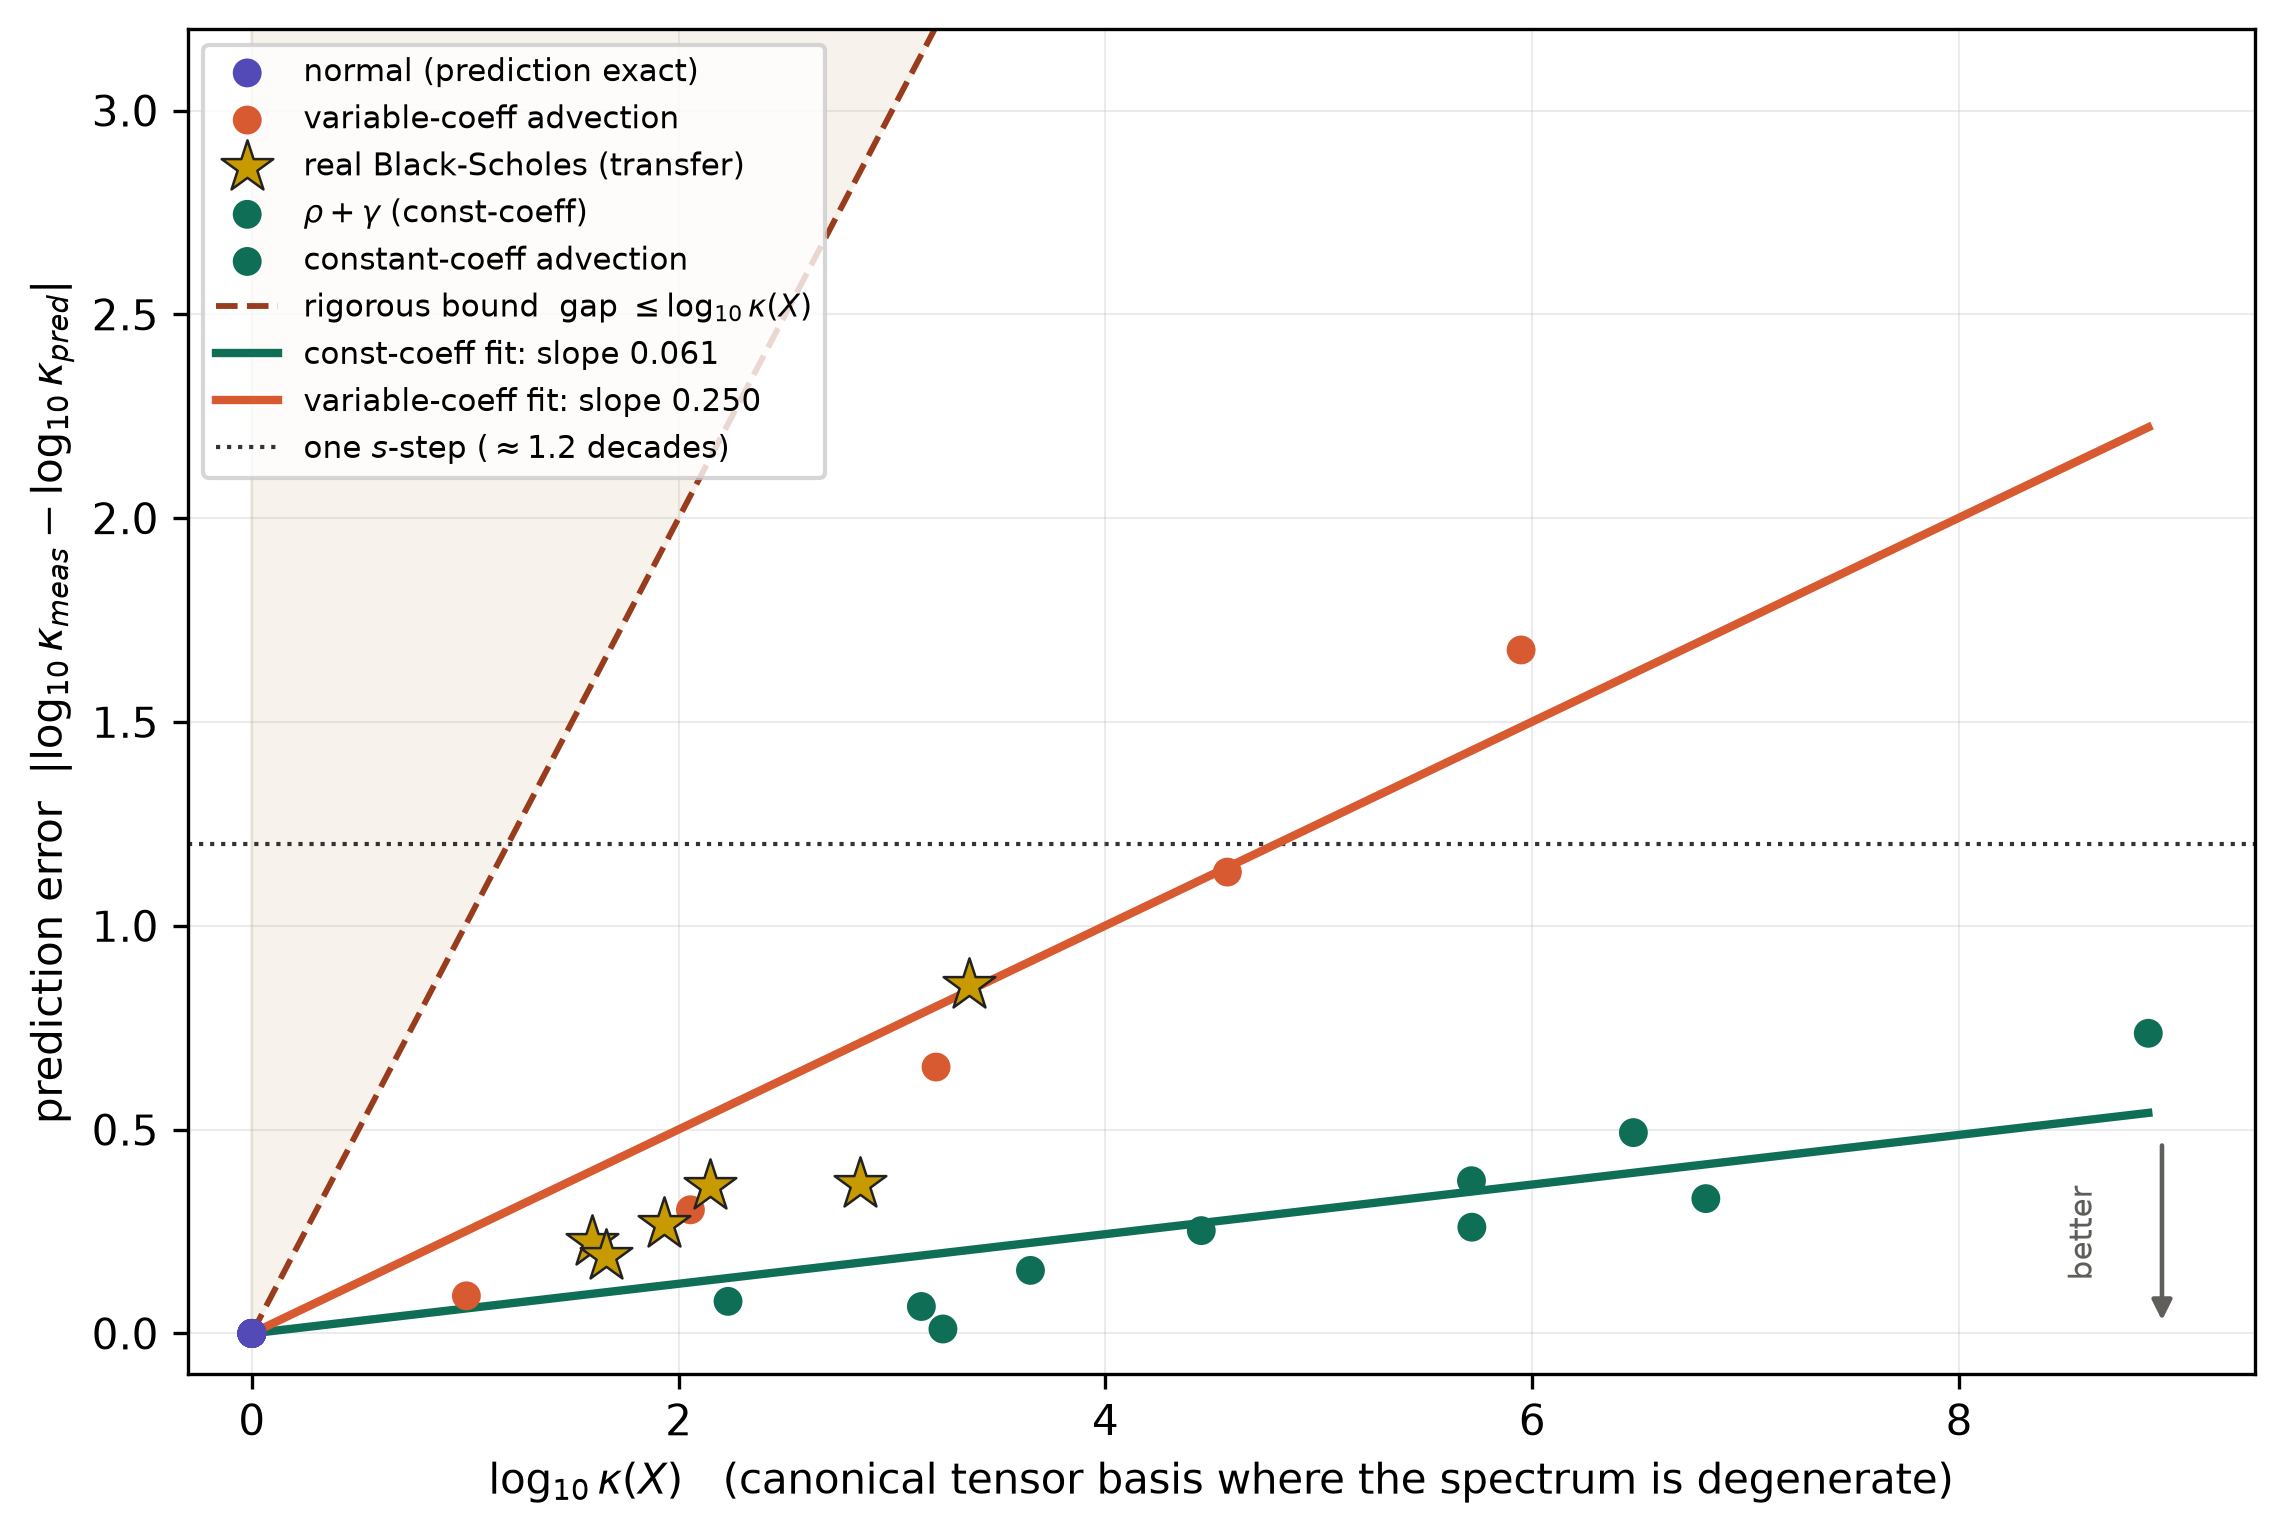
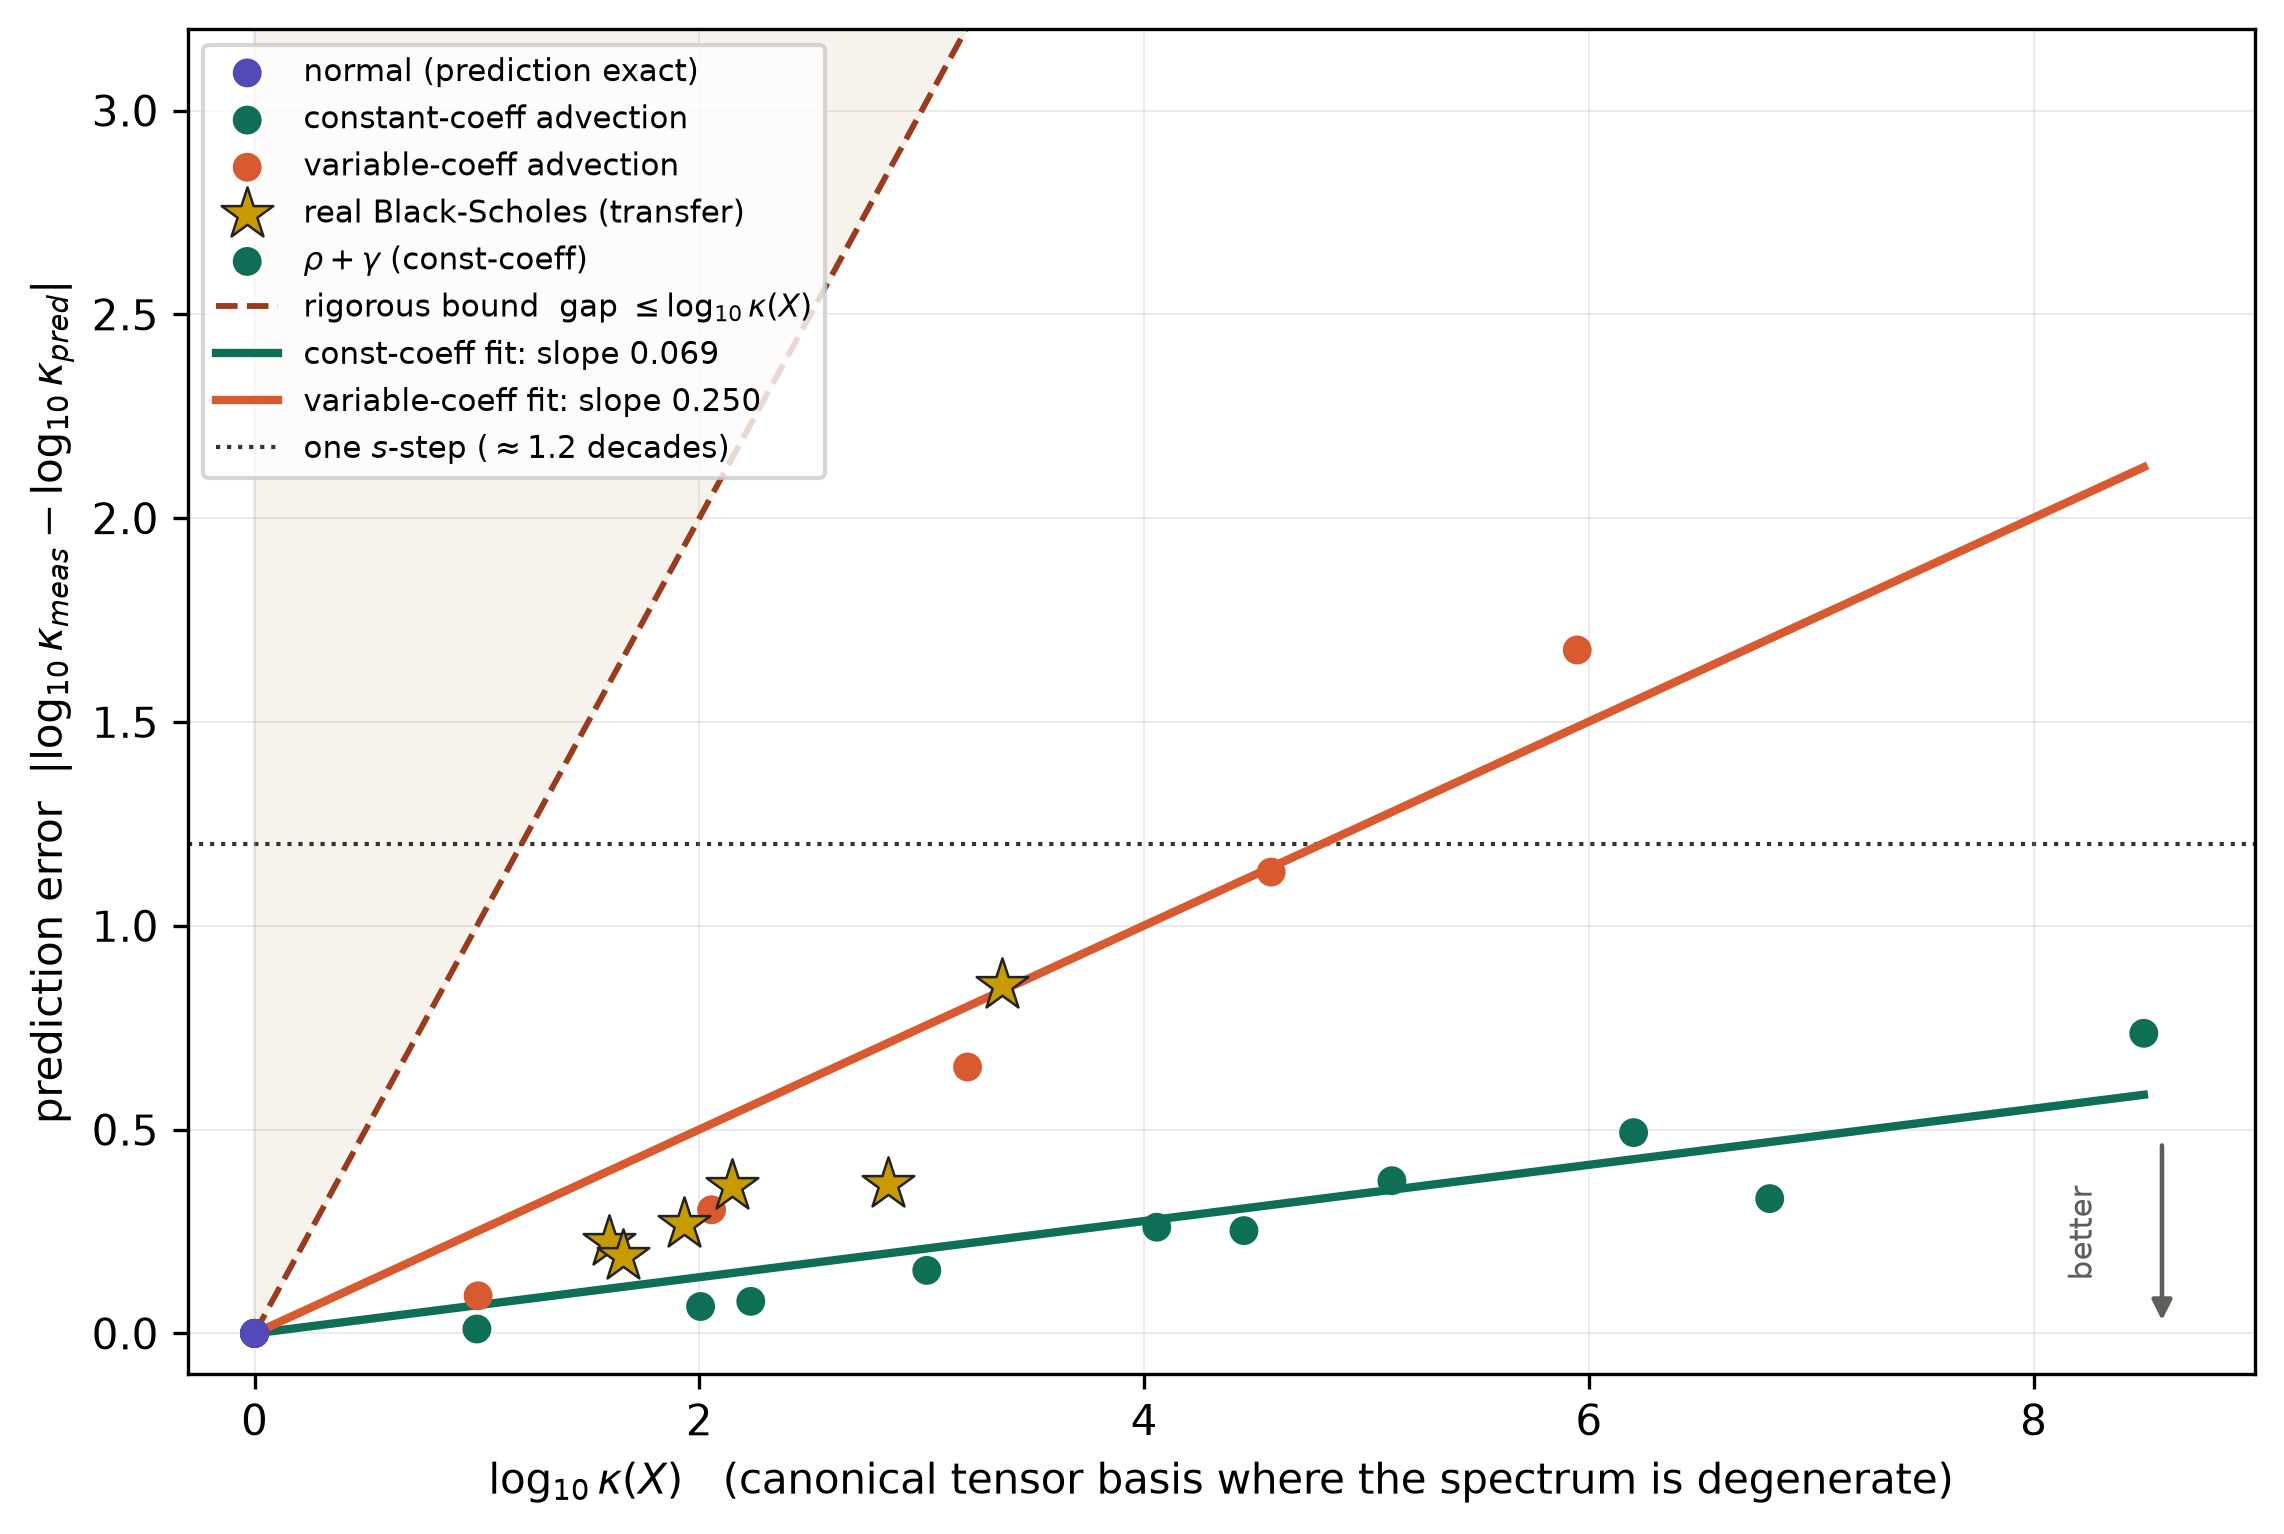
fix: refitted the log-robustness law on the canonical kappa(X) axis

diff --git a/README.md b/README.md
@@ -595,17 +595,22 @@ Measured, the data sits far below that line and grows only *logarithmically*:
 
 | Mechanism                                                      | Fitted slope of (error in decades) vs $\log_{10}\kappa(X)$ |
 |----------------------------------------------------------------|------------------------------------------------------------|
-| constant-coefficient (advection, correlation, $\rho + \gamma$) | **0.061**                                                  |
+| constant-coefficient (advection, correlation, $\rho + \gamma$) | **0.069**                                                  |
 | variable-coefficient advection (position-dependent ramp)       | **0.250** (~4x steeper)                                    |
 
 The two slopes differ by a factor of four, so the law is **scoped to the
 constant-coefficient family**, not mechanism-independent - which is exactly why the
-variable-advection knob exists in the instrument. The figure's horizontal axis is currently
-the dense $\kappa(X)$, which for the zero-correlation half of the constant-coefficient arm
-is degenerate and inflated (up to $173\times$, see [the asset-dimension
-law](#the-asset-dimension-law)); refitting that arm on the canonical axis moves its slope to
-0.069, leaving the separation intact. The variable-coefficient arm ramps a single axis, so
-its spectrum is simple and its axis is sound either way.
+variable-advection knob exists in the instrument.
+
+Both are fitted on the canonical axis. This matters for the constant-coefficient arm, whose
+zero-correlation half is a pure Kronecker sum: its axes are interchangeable, so the dense
+$\kappa(X)$ there is degenerate and inflated by up to $173\times$ (see [the asset-dimension
+law](#the-asset-dimension-law)). Fitted on that dense axis the slope reads 0.061 instead of
+0.069 - a shift small enough not to disturb the conclusion, but the two arms would have been
+compared on axes of different validity, since the variable-coefficient arm ramps a single
+axis and therefore keeps a simple spectrum and a sound dense value. The `--real-bs` and
+variable-advection points legitimately retain the dense value for the same reason;
+`regime_plot.py` reports the split (19 canonical, 11 dense) on every run.
 
 A *decade* here is one factor of ten in the basis condition number: the error plotted is
 $\lvert \log_{10}\kappa_{\text{meas}} - \log_{10}\kappa_{\text{pred}} \rvert$, so 1.0
@@ -929,10 +934,9 @@ Carried explicitly so no figure is read as claiming more than it measures.
 | Caveat                                                                                                                        | Consequence                                                                                                                                                                                                                                                          |
 |-------------------------------------------------------------------------------------------------------------------------------|----------------------------------------------------------------------------------------------------------------------------------------------------------------------------------------------------------------------------------------------------------------------|
 | DRAM bytes are **modeled, not counted** (puffin's uncore counters need root)                                                  | vertical-mechanism traffic claims are reconciled against the roofline, which is weaker evidence; every such curve is labeled as a model                                                                                                                              |
-| $s_{\max}$ is reported at a **chosen tolerance** of $\pm 1$ step (`kSMaxStepTolerance`), not a measured cross-compiler noise floor | quote block *counts*, not raw $s_{\max}$; the floor is asserted, and either measuring it or restating it as a tolerance is outstanding                                                                                                                               |
+| $s_{\max}$ is reported at a **chosen tolerance** of $\pm 1$ step (`kSMaxStepTolerance`), not a measured cross-compiler noise floor | quote block *counts*, not raw $s_{\max}$; it is now stated as a chosen tolerance with its reasoning, but the cross-compiler spread has still not been measured                                                                                                        |
 | $\kappa(X)$ is dense-eigensolvable only to $N \le 32768$ (`kControlMaxN`)                                                     | the certificate is validated well below where the performance claims live - the real-BS control tops out at $N = 8{,}000$ ($n = 20$) against a production $N \approx 2.3 \times 10^5$ ($n = 61$); `structured_kappa_X` lifts the cap for the synthetic operator only |
 | The upper-right corner is unreachable on a single-NUMA socket                                                                 | its status is a portability argument, not a measurement                                                                                                                                                                                                              |
-`regime_control.csv` predates the canonical $\kappa(X)$, so the log-robustness figure still fits its constant-coefficient arm on the dense axis | the fitted slope moves from 0.061 to 0.069 when refitted canonically, which does not disturb the conclusion; re-run `scripts/regime/regime_control.sh` to regenerate the figure on the correct axis |
 | Coordinates are **not portable across memory systems**                                                                        | both axes must be re-derived from a new machine's constants (`include/machine.hpp`) before any port; a GPU's tiny L2, large bandwidth and cheap on-chip reductions move both                                                                                         |
 
 ## Repository layout
